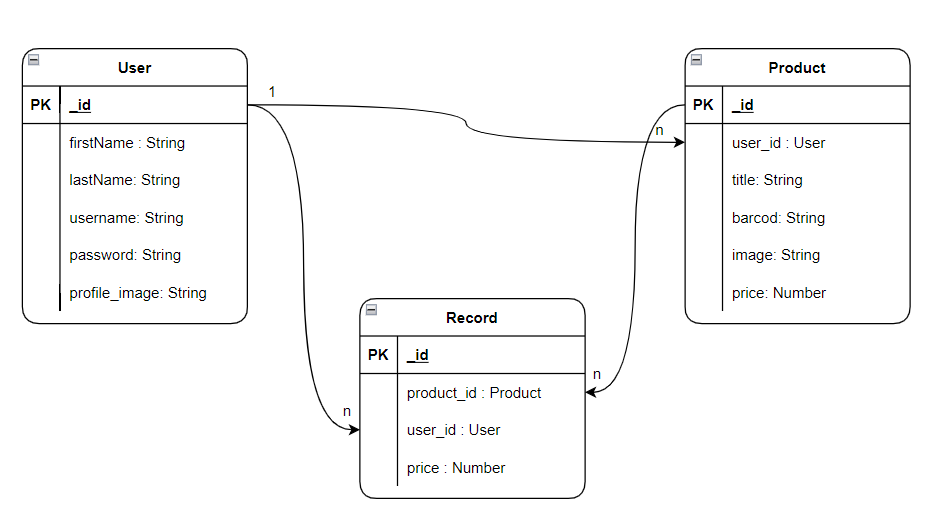
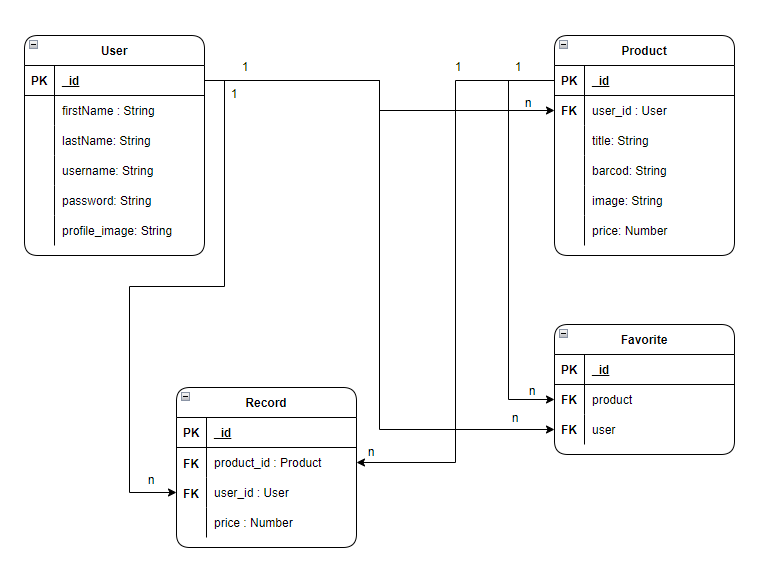
08/12/21
-Favorites model olusturuldu
-Favorites model içerisinde user ve product iliskisi kuruldu.
- Favorites CRUD islemleri tamamlandi

diff --git a/v1/src/controller/Favorite.js b/v1/src/controller/Favorite.js
@@ -1,0 +1,62 @@
+const httpStatus = require("http-status");
+const {
+  list,
+  insert,
+  remove,
+  getOneFavoriteItemByFilter,
+} = require("../services/Favorite");
+
+const index = (req, res) => {
+  list({ user: req.user._id })
+    .then((response) => {
+      res.status(httpStatus.OK).json(response);
+    })
+    .catch(() =>
+      res
+        .status(httpStatus.INTERNAL_SERVER_ERROR)
+        .send({ message: "Favoriler listelenirken bir hata oluştu!" })
+    );
+};
+
+const create = (req, res) => {
+  req.body.user = req.user._id;
+  insert(req.body)
+    .then((response) => {
+      res.status(httpStatus.CREATED).json(response);
+    })
+    .catch(() =>
+      res
+        .status(httpStatus.INTERNAL_SERVER_ERROR)
+        .send({ message: "Favori ürün eklenirken bilinmeyen bir hata oluştu!" })
+    );
+};
+
+const deleteFavorite = (req, res) => {
+  const { id } = req.params;
+  const user_id = req.user._id;
+  console.log("product ::> ", id);
+  console.log("user ::> ", user_id);
+  getOneFavoriteItemByFilter({ product: id, user: user_id }).then(
+    (deleteItem) => {
+      if (!deleteItem)
+        return res
+          .status(httpStatus.NOT_FOUND)
+          .send({ message: "Ürün bulunamadı" });
+      remove(deleteItem._id)
+        .then((response) => {
+          return res.status(httpStatus.OK).json(response);
+        })
+        .catch(() => {
+          res.status(httpStatus.INTERNAL_SERVER_ERROR).send({
+            message: "Favorilerden kaldırılırken bir sorunla kaşılaşıldı",
+          });
+        });
+    }
+  );
+};
+
+module.exports = {
+  index,
+  create,
+  deleteFavorite,
+};

diff --git a/v1/src/app.js b/v1/src/app.js
@@ -3,7 +3,12 @@ const helmet = require("helmet");
 
 const config = require("./config");
 const loaders = require("./loaders");
-const { UserRoutes, ProductRoutes, RecordRoutes } = require("./api-routes");
+const {
+  UserRoutes,
+  ProductRoutes,
+  RecordRoutes,
+  FavoriteRoutes,
+} = require("./api-routes");
 
 config();
 loaders();
@@ -18,4 +23,5 @@ app.listen(process.env.APP_PORT, () => {
   app.use("/users", UserRoutes);
   app.use("/products", ProductRoutes);
   app.use("/records", RecordRoutes);
+  app.use("/favorites", FavoriteRoutes);
 });

diff --git a/v1/src/services/Favorite.js b/v1/src/services/Favorite.js
@@ -1,0 +1,28 @@
+const Favorite = require("../models/Favorite");
+
+const list = (where = {}) => {
+  return Favorite.find(where).populate({
+    path: "product",
+    select: "title image",
+  });
+};
+
+const getOneFavoriteItemByFilter = (where) => {
+  return Favorite.findOne(where);
+};
+
+const insert = (body) => {
+  const favorite = new Favorite(body);
+  return favorite.save();
+};
+
+const remove = (id) => {
+  return Favorite.findByIdAndDelete(id);
+};
+
+module.exports = {
+  list,
+  insert,
+  remove,
+  getOneFavoriteItemByFilter,
+};

diff --git a/v1/src/api-routes/Favorite.js b/v1/src/api-routes/Favorite.js
@@ -1,0 +1,12 @@
+const express = require("express");
+
+const { index, create, deleteFavorite } = require("../controller/Favorite");
+const authenticate = require("../middlewares/authenticate");
+
+const router = express.Router();
+
+router.route("/").get(authenticate, index);
+router.route("/").post(authenticate, create);
+router.route("/:id").delete(authenticate, deleteFavorite);
+
+module.exports = router;

diff --git a/v1/src/models/Favorite.js b/v1/src/models/Favorite.js
@@ -1,0 +1,11 @@
+const Mongoose = require("mongoose");
+
+const FavoriteSchema = new Mongoose.Schema(
+  {
+    user: { type: Mongoose.Types.ObjectId, ref: "users" },
+    product: { type: Mongoose.Types.ObjectId, ref: "products" },
+  },
+  { versionKey: false, timestamps: true }
+);
+
+module.exports = Mongoose.model("favorites", FavoriteSchema);

diff --git a/v1/src/api-routes/index.js b/v1/src/api-routes/index.js
@@ -1,3 +1,4 @@
 module.exports.UserRoutes = require("./User");
 module.exports.ProductRoutes = require("./Product");
 module.exports.RecordRoutes = require("./Record");
+module.exports.FavoriteRoutes = require("./Favorite");
